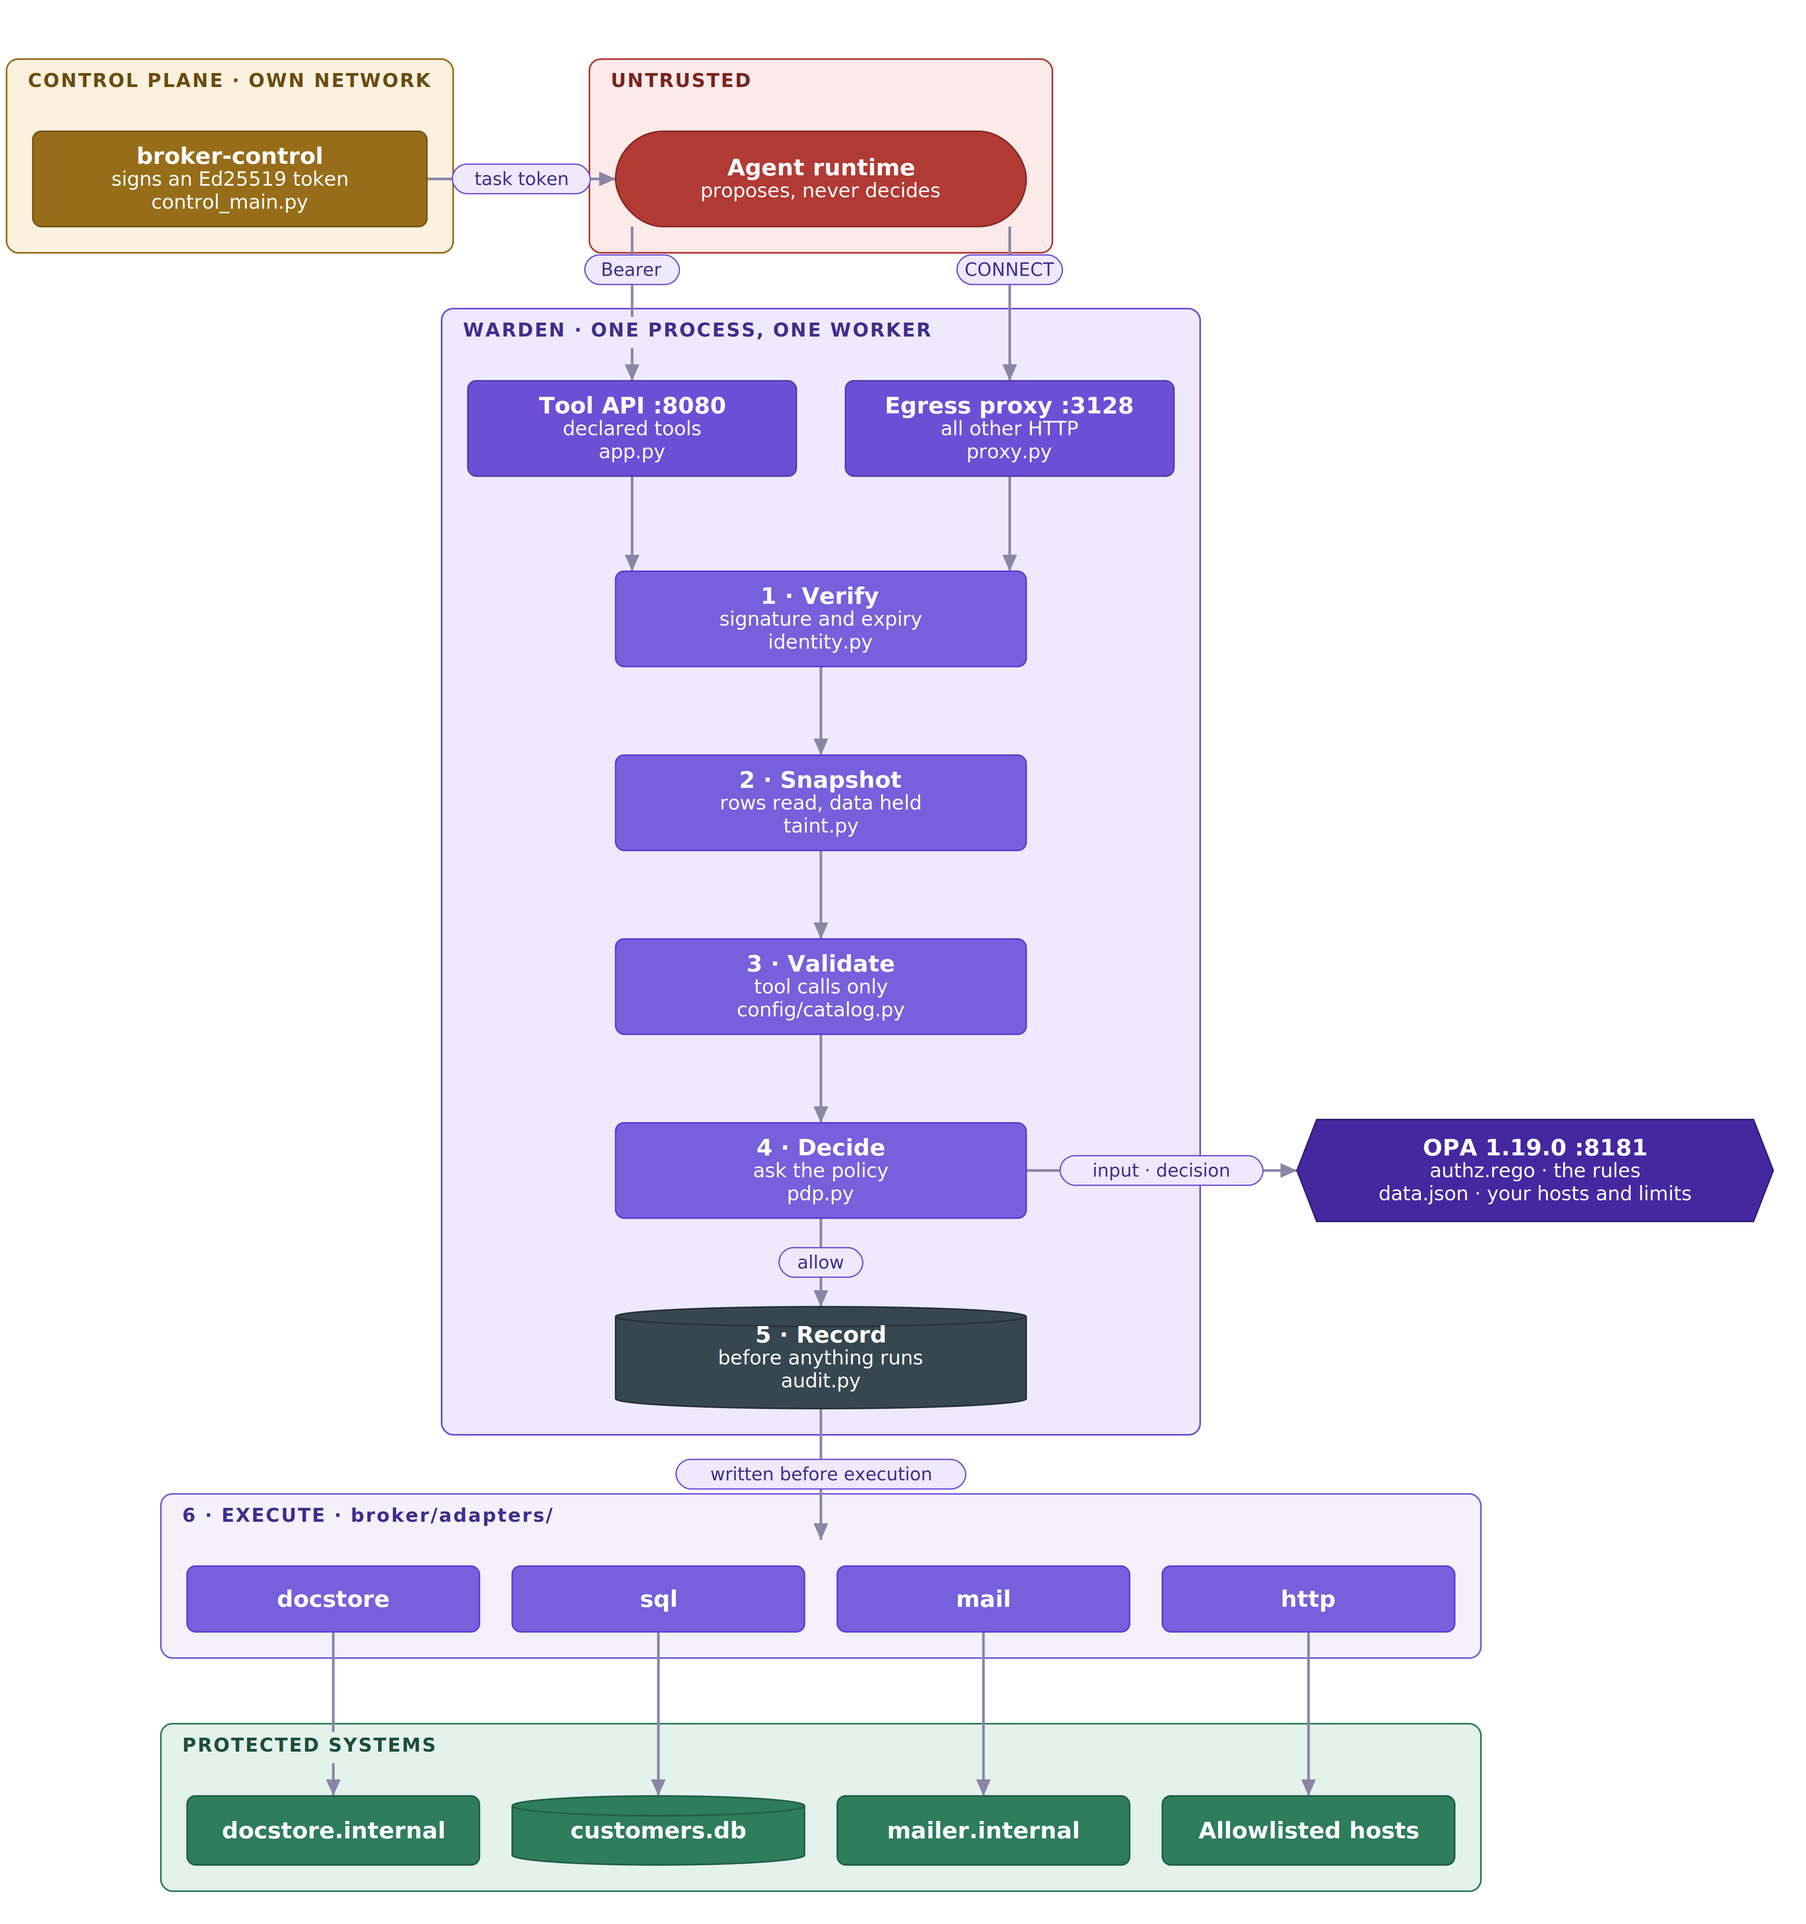
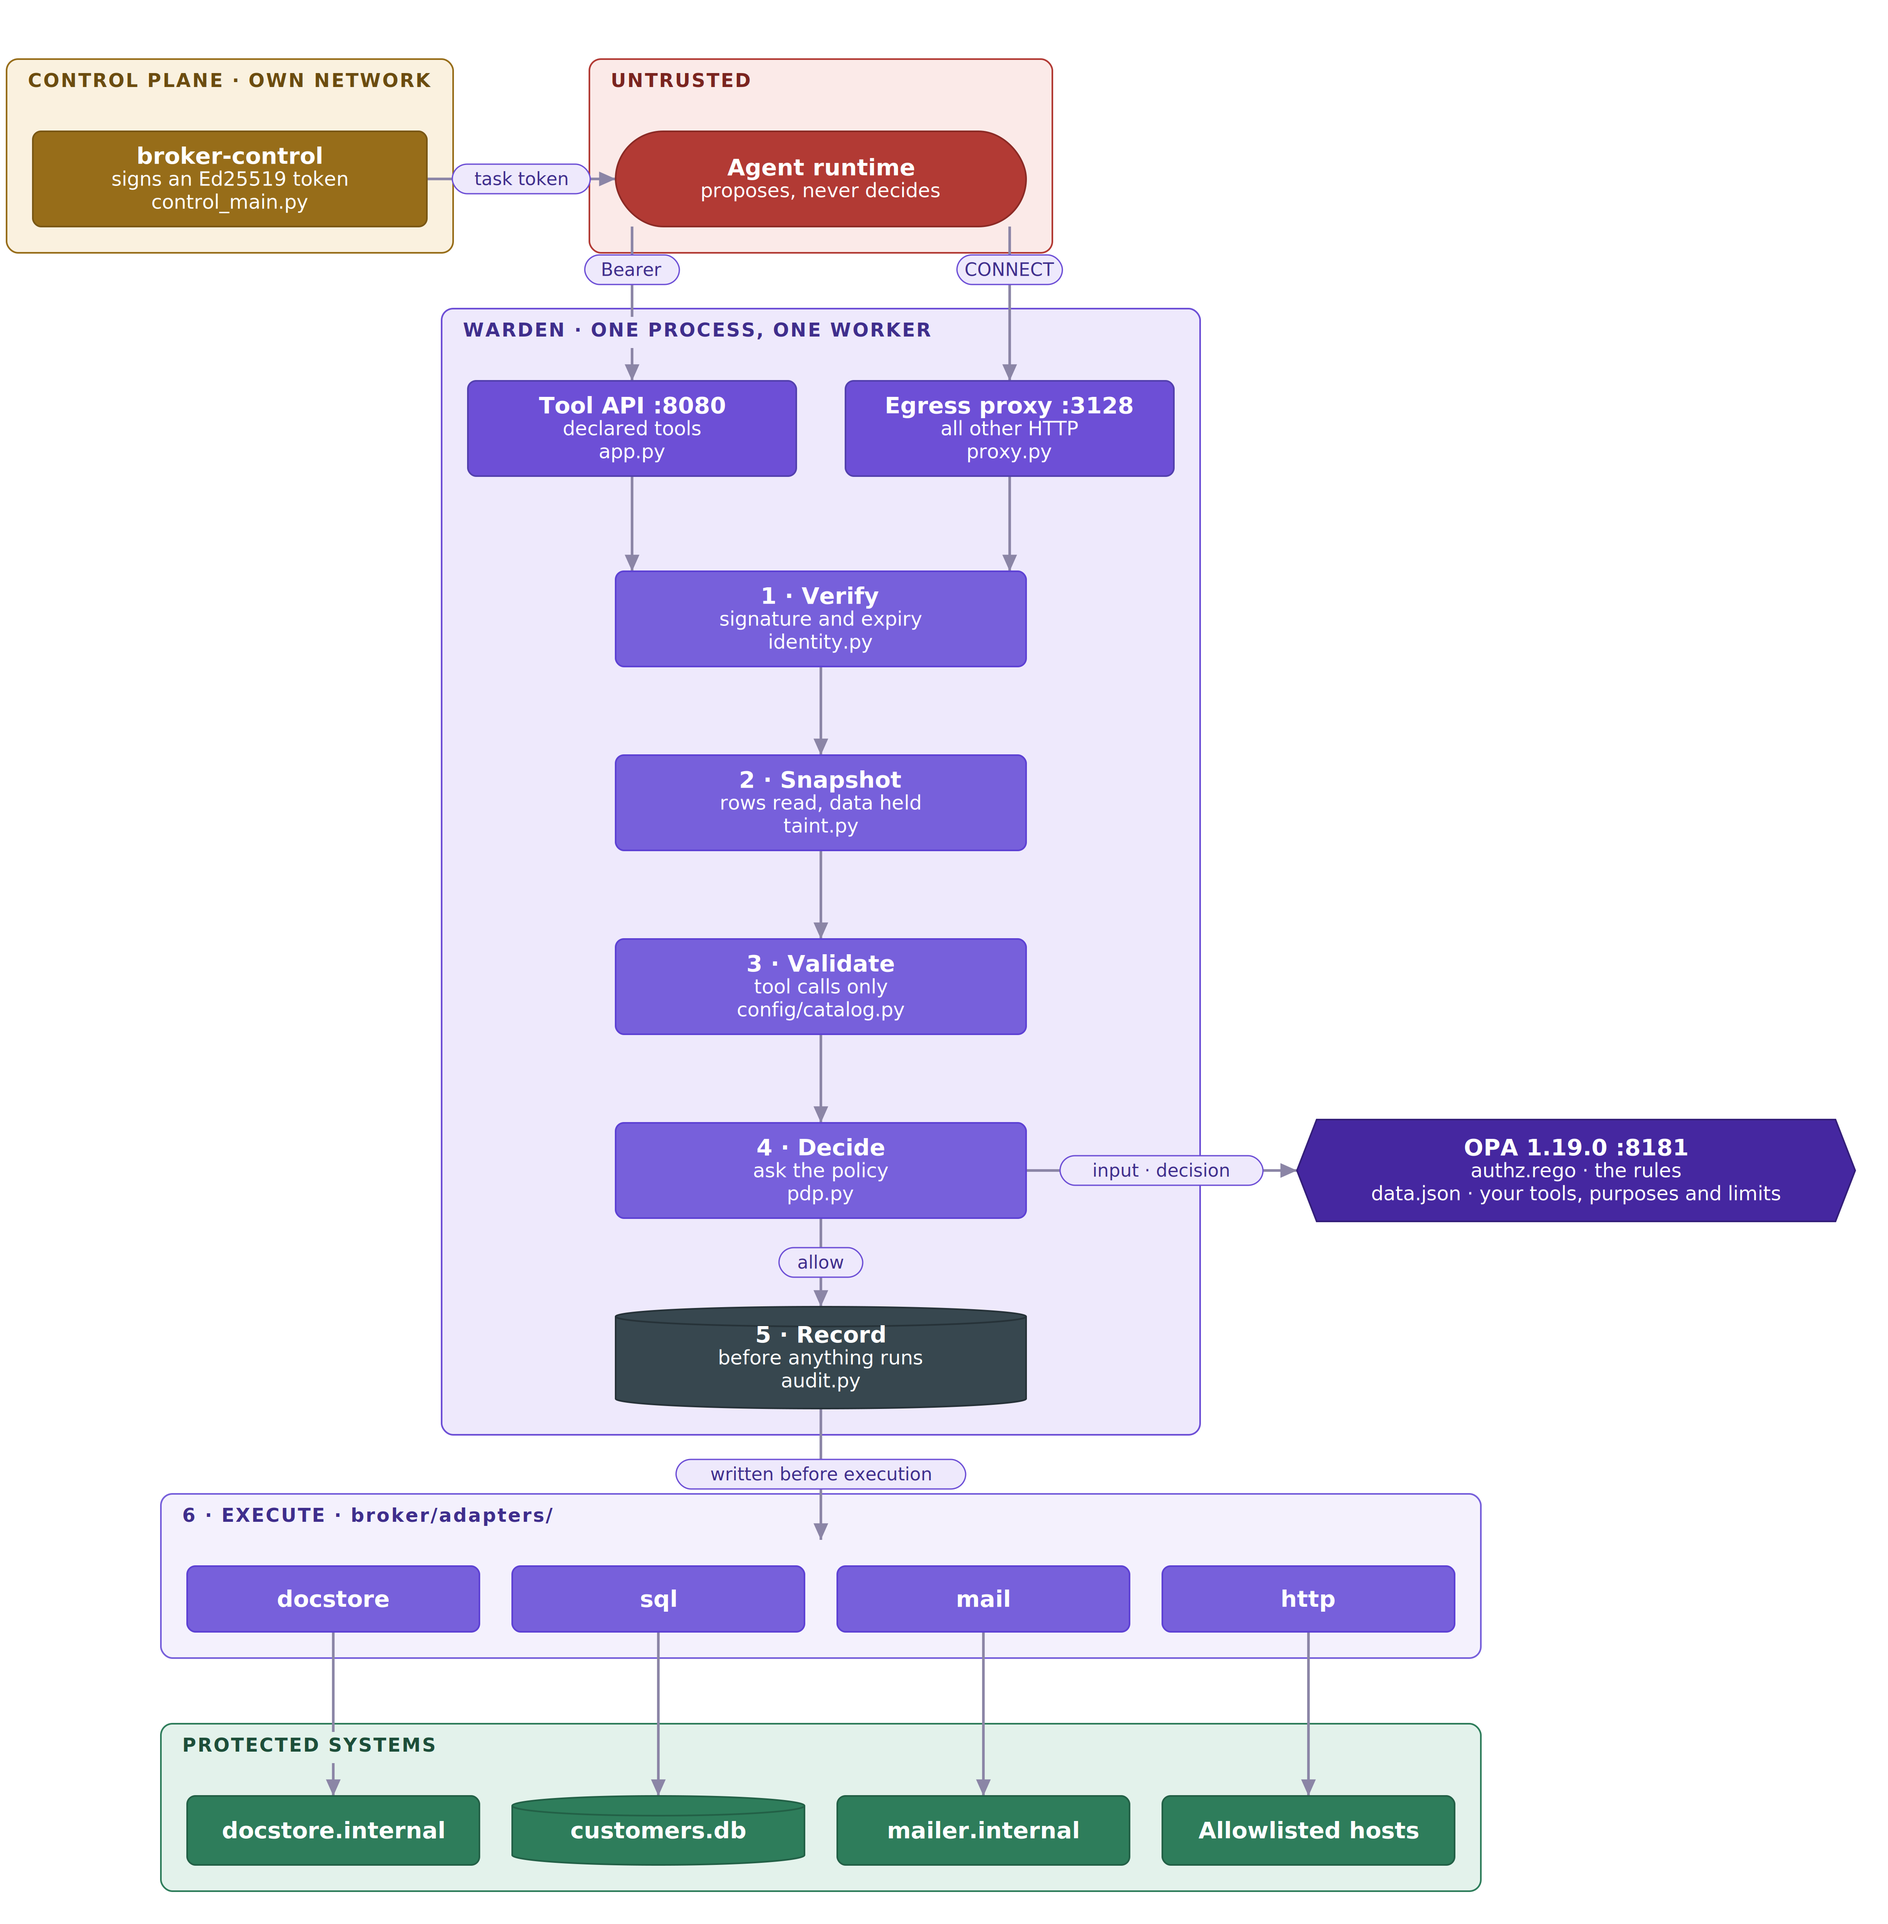
docs: label data.json with its own three keys
The OPA box now reads "data.json, your tools, purposes and limits", which is
tools/purposes/limits in the order the file declares them. Someone who reads
the label and then opens the file sees the same three words in the same
sequence, so there is nothing to map between.

Widened the box to 340 to hold it; the layout check confirms the line needs
338 of that.

diff --git a/tools/render_diagrams.py b/tools/render_diagrams.py
@@ -419,9 +419,11 @@ def architecture():
     aud = d.box(CX - bw / 2, y, bw, 62,
                 ["5 · Record", "before anything runs", "audit.py"], "store", "store")
 
-    opa = d.box(790, pdp.cy - 31, 290, 62,
+    # The three lines of the second label are data.json's three top-level
+    # keys, in order, so the box and the file read the same way round.
+    opa = d.box(790, pdp.cy - 31, 340, 62,
                 ["OPA 1.19.0 :8181", "authz.rego · the rules",
-                 "data.json · your hosts and limits"], "core", "hex")
+                 "data.json · your tools, purposes and limits"], "core", "hex")
 
     d.zone("WARDEN · ONE PROCESS, ONE WORKER", "enforce", [api, proxy, *pipe, aud])
 
